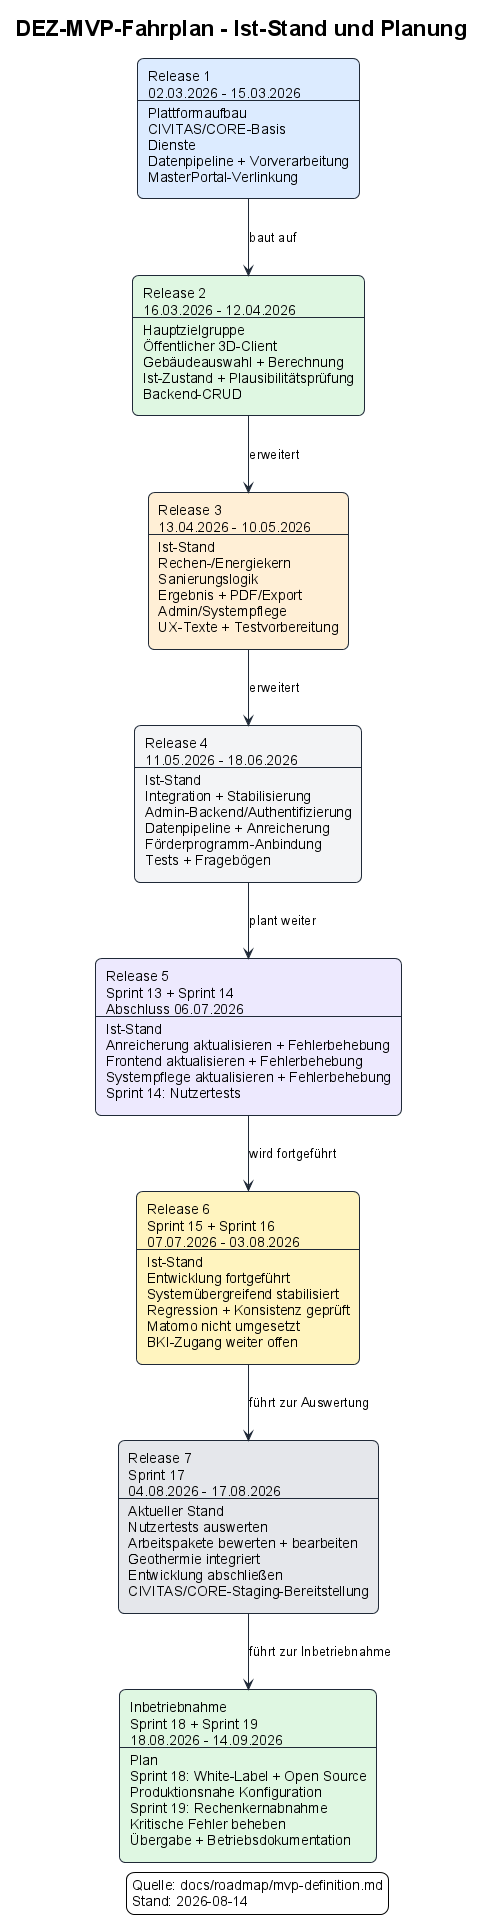
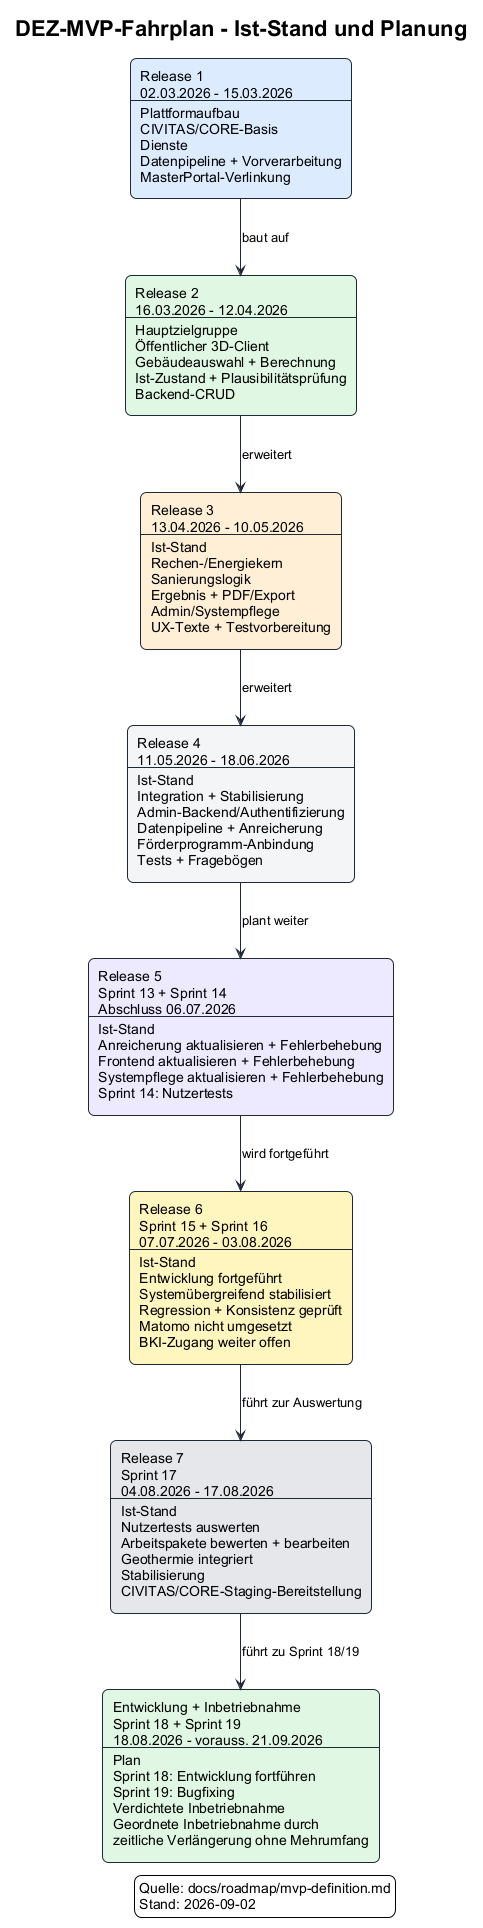
docs: updated roadmap and source references

diff --git a/docs/roadmap/mvp-definition.md b/docs/roadmap/mvp-definition.md
@@ -1,8 +1,8 @@
 # MVP-Definition und Release-Aufteilung
 
-Dieses Dokument beschreibt den tatsächlichen Umsetzungsstand des MVP und dient als Planungsdokument für die ohne Unterbrechung fortgeführte Entwicklung und Inbetriebnahme bis voraussichtlich 14. September 2026.
+Dieses Dokument beschreibt den tatsächlichen Umsetzungsstand des MVP und dient als Planungsdokument für die ohne Unterbrechung fortgeführte Entwicklung, das Bugfixing und die Inbetriebnahme bis voraussichtlich 21. September 2026.
 
-Letzte Änderung: **2026-09-01** (siehe [Roadmap-Pflege und Änderungsverlauf](#roadmap-pflege-und-aenderungsverlauf))
+Letzte Änderung: **2026-09-02** (siehe [Roadmap-Pflege und Änderungsverlauf](#roadmap-pflege-und-aenderungsverlauf))
 
 ---
 
@@ -18,14 +18,14 @@ Letzte Änderung: **2026-09-01** (siehe [Roadmap-Pflege und Änderungsverlauf](#
 8. [Release 4 - Integration, Stabilisierung, Datenpipeline und Testvorbereitung](#release-4)
 9. [Release 5 - Aktualisierung, Bugfixing und Usertesting](#release-5)
 10. [Release 6 - Fortführung der Entwicklung und Stabilisierung](#release-6)
-11. [Release 7 - Usertesting-Auswertung, Arbeitspaketbearbeitung und Entwicklungsabschluss](#release-7)
-12. [Inbetriebnahme - Sprint 18 und Sprint 19](#inbetriebnahme)
+11. [Release 7 - Usertesting-Auswertung, Arbeitspaketbearbeitung und Staging-Deployment](#release-7)
+12. [Entwicklung, Bugfixing und Inbetriebnahme - Sprint 18 und Sprint 19](#inbetriebnahme)
 
 <a id="zielbild-mvp"></a>
 
 ## Zielbild MVP
 
-Der MVP wird in aufeinander aufbauenden Releases umgesetzt. Bis einschließlich Release 6 bilden jeweils zwei aufeinanderfolgende Entwicklungssprints semantisch einen Release. Release 7 besteht als abschließende Ausnahme aus Sprint 17. Insgesamt sind 17 Entwicklungssprints und anschließend zwei Inbetriebnahme-Sprints vorgesehen. Die Arbeit wird ohne Sommerpause in zweiwöchigen Sprints bis voraussichtlich 14. September 2026 fortgeführt.
+Der MVP wird in aufeinander aufbauenden Releases umgesetzt. Bis einschließlich Release 6 bilden jeweils zwei aufeinanderfolgende Entwicklungssprints semantisch einen Release. Release 7 besteht als Ausnahme aus Sprint 17. Entgegen der ursprünglichen Planung wird die Entwicklung in Sprint 18 fortgeführt; Sprint 19 dient dem Bugfixing und der aufgrund laufender Plattform-Updates zeitlich verdichteten Inbetriebnahme. Sprint 19 wird tendenziell um eine Woche bis voraussichtlich 21. September 2026 verlängert. Diese zeitliche Verlängerung erweitert den geplanten Inhalt nicht.
 
 1. **Release 1 (02.03.2026 bis 15.03.2026):** Plattformaufbau (CIVITAS/CORE + Services + Datenpipeline)
 2. **Release 2 (16.03.2026 bis 12.04.2026):** Öffentlicher Client + Bürgerfunktionen + Backend-CRUD
@@ -33,8 +33,8 @@ Der MVP wird in aufeinander aufbauenden Releases umgesetzt. Bis einschließlich 
 4. **Release 4 (11.05.2026 bis 18.06.2026):** Integration, Stabilisierung, Backend-/Admin-Anbindung, Datenpipeline, Förderprogramm-Anbindung und Testvorbereitung
 5. **Release 5 (Sprint 13 und Sprint 14, Abschluss am 06.07.2026):** Aktualisierung und Bugfixing der Anreicherung, des Bürger-Frontends und der Systempflege; Schwerpunkt von Sprint 14 war zusätzlich die Durchführung des Usertestings
 6. **Release 6 (Sprint 15 und Sprint 16, 07.07.2026 bis 03.08.2026):** Fortführung der Entwicklung, Stabilisierung und Vorbereitung des abschließenden Entwicklungsrelease; Matomo wurde wegen fehlender Kundeninstanz und niedriger Priorität nicht umgesetzt
-7. **Release 7 (Sprint 17, voraussichtlich 04.08.2026 bis 17.08.2026):** Auswertung des Usertestings, fachliche und technische Bewertung sowie Bearbeitung der daraus abgeleiteten Arbeitspakete, Abschluss der Entwicklungsphase, Stabilisierung und Deployment einer Version in der CIVITAS/CORE-Staging-Umgebung der Stadt Regensburg
-8. **Inbetriebnahme-Sprints 18 und 19 (voraussichtlich 18.08.2026 bis 14.09.2026):** Produktionsnahe Konfiguration, Inbetriebnahme, Abnahmeunterstützung, Behebung kritischer Fehler und Übergabe
+7. **Release 7 (Sprint 17, 04.08.2026 bis 17.08.2026):** Auswertung des Usertestings, fachliche und technische Bewertung sowie Bearbeitung der daraus abgeleiteten Arbeitspakete, Stabilisierung und Deployment einer Version in der CIVITAS/CORE-Staging-Umgebung der Stadt Regensburg
+8. **Sprint 18 und Sprint 19 (18.08.2026 bis voraussichtlich 21.09.2026):** Fortführung der Entwicklung in Sprint 18, Bugfixing in Sprint 19 sowie die aufgrund laufender Plattform-Updates in Sprint 19 verdichtete Inbetriebnahme einschließlich Abnahmeunterstützung und Übergabe; die tendenzielle Verlängerung von Sprint 19 um eine Woche ist rein zeitlich und erweitert den Inhalt nicht
 
 Die Kalenderdaten ab Sprint 15 sind Planungsdaten. Die Priorisierung der aus dem Usertesting abgeleiteten Arbeitspakete liegt mit Stand 12.08.2026 vor. Der tatsächlich umsetzbare Umfang hängt weiterhin vom geklärten Status der einzelnen Pakete, von erforderlichen Daten, Inhalten und fachlichen Freigaben sowie von der verfügbaren Sprintkapazität ab.
 
@@ -69,6 +69,7 @@ Quelle: `raw/mvp-roadmap.puml`
 
 | Datum | Betroffener Umfang | Bisheriger Stand | Neuer Stand |
 | --- | --- | --- | --- |
+| 2026-09-02 | Sprint 18/19 und Inbetriebnahme | Sprint 18 und Sprint 19 waren vollständig für Inbetriebnahme, Abnahmeunterstützung und kritische Korrekturen bis 14.09.2026 vorgesehen | Sprint 18 wird noch für Entwicklung und Sprint 19 für Bugfixing genutzt. Aufgrund der laufenden Plattform-Updates verdichtet sich die Inbetriebnahme auf Sprint 19. Sprint 19 wird tendenziell bis 21.09.2026 verlängert; die zusätzliche Woche erweitert nur den Zeitraum, nicht den geplanten Inhalt |
 | 2026-09-01 | TA-74/TA-75 - Rechenmethoden und Nachweise | Die verwendeten Formeln, externen Katalogwerte und Fundstellen waren nicht in einem einheitlichen, versionsgebundenen Nachweis zusammengeführt | Der implementierte Rechenumfang ist mit Core v0.19.0, konkreten Formeln, Codepfaden, Seiten-, Tabellen- und Zeilenbezügen dokumentiert; TA-75 und TA-74 sind insoweit abgeschlossen. Nur der nicht implementierte Teilumfang Sanierungsinvestitionen/Amortisation bleibt wegen des fehlenden BKI-Datenzugangs blockiert |
 | 2026-08-27 | AP-20 – PDF-Bericht und Web/PDF-Konsistenz | Der abgestimmte PDF-Umfang war umgesetzt; die finale Synchronisation und Prüfung der Inhalte zwischen Webanwendung und PDF-Bericht war noch offen | Die Web-/PDF-Synchronisation und abschließende Prüfung sind abgeschlossen; AP-20 ist vollständig erledigt und der Restaufwand beträgt 0 Tage |
 | 2026-08-27 | AP-12 – Bedienung und Darstellung der Maßnahmen | Ausgewählte Maßnahmen auf der Ergebnisseite waren noch umzusetzen; fixierte Tabellenüberschriften waren wegen der technischen Kollision mit dem Sticky der Live-Ergebnisse abgegrenzt | Die Ergebnisdarstellung ist umgesetzt und AP-12 vollständig erledigt. Nach ausdrücklicher Abstimmung mit dem Auftraggeber werden die Tabellenüberschriften nicht sichtbar gehalten beziehungsweise sticky gesetzt; dies ist eine bestätigte Scope-Entscheidung. Der Restaufwand beträgt 0 Tage |
@@ -337,11 +338,11 @@ Ergebnis:
 
 <a id="release-7"></a>
 
-## Release 7 - Usertesting-Auswertung, Arbeitspaketbearbeitung und Entwicklungsabschluss
+## Release 7 - Usertesting-Auswertung, Arbeitspaketbearbeitung und Staging-Deployment
 
 **Planungszeitraum:** Sprint 17, 04.08.2026 bis 17.08.2026
 
-Ziel: Die Rückmeldungen aus dem Usertesting fachlich und technisch bewerten, zu zusammenhängenden Arbeitspaketen bündeln, die priorisierten Punkte bearbeiten und die Entwicklungsphase abschließen.
+Ziel: Die Rückmeldungen aus dem Usertesting fachlich und technisch bewerten, zu zusammenhängenden Arbeitspaketen bündeln, die priorisierten Punkte bearbeiten und die Staging-Bereitstellung durchführen.
 
 Bearbeiteter und verbleibender Umfang:
 
@@ -351,7 +352,7 @@ Bearbeiteter und verbleibender Umfang:
 - Ableitung umsetzbarer Tasks erst nach fachlicher Bestätigung und Priorisierung.
 - Umsetzung der durch den Auftraggeber priorisierten Punkte, soweit Voraussetzungen und Sprintkapazität dies zulassen.
 - Fortführung von Stabilisierung, Regressionstests und Konsistenzprüfungen zwischen Webanwendung, Berechnungskern, Backend, Administration und PDF-Bericht.
-- Abschluss der Entwicklungsphase, Stabilisierung und Vorbereitung des Inbetriebnahmekandidaten.
+- Stabilisierung und Vorbereitung eines Kandidaten für die weitere Entwicklung und anschließende Inbetriebnahme.
 
 Die Usertesting-Auswertung umfasst insbesondere Transparenz und Einstieg, Nutzerführung und Responsivität, Gebäudeauswahl und Eingabevalidierung, Maßnahmen- und Empfehlungslogik, Kosten und Amortisation, Fernwärme und lokale Hinweise, PV/Geothermie, Förderung, Ergebnisabschluss, Datenspende und PDF-Konsistenz.
 
@@ -403,7 +404,7 @@ Ergebnis:
 
 ### Abschluss, Stabilisierung und Staging-Deployment
 
-Ziel: Die Entwicklungsphase abschließen, priorisierte Änderungen integrieren, einen stabilen Kandidaten für die Inbetriebnahme bereitstellen und eine Version in der CIVITAS/CORE-Staging-Umgebung der Stadt Regensburg deployen.
+Ziel: Priorisierte Änderungen integrieren, einen stabilen Kandidaten für die weitere Entwicklung und Inbetriebnahme bereitstellen und eine Version in der CIVITAS/CORE-Staging-Umgebung der Stadt Regensburg deployen.
 
 Geplanter Umfang:
 
@@ -418,28 +419,30 @@ Geplanter Umfang:
 
 Hinweis:
 
-- Release 7 besteht als abschließende Ausnahme aus dem einzelnen Sprint 17 und ist der letzte Entwicklungsrelease vor der Inbetriebnahme.
+- Release 7 besteht als Ausnahme aus dem einzelnen Sprint 17. Die ursprünglich für danach vorgesehene ausschließliche Inbetriebnahme wurde zugunsten weiterer Entwicklung in Sprint 18 und Bugfixing in Sprint 19 angepasst.
 - Ein Prioritätslabel allein begründet keine Aufnahme in Sprint 17. Maßgeblich sind zusätzlich der geklärte Bearbeitungsstand, ein ausreichend bestimmter Restumfang, erfüllte Voraussetzungen und verfügbare Kapazität.
 - Nicht für Sprint 17 bestätigte oder weiterhin extern blockierte Usertesting-Punkte werden nicht stillschweigend aufgenommen.
 - Quartiersanalyse bleibt von fachlicher Klärung und Freigabe abhängig. Für Solar/PV liegt die Datenfreigabe vor; Detailgrad und Umsetzung sind offen, weil die ursprüngliche LB-Tiefe von AG und AN als deutlich zu hoch bewertet und der reduzierte AN-Vorschlag vom AG nicht angenommen wurde. Die Geothermieintegration wurde nach der Datenfreigabe in Sprint 17 technisch umgesetzt; Herkunfts-, Lizenz-, Turnus- und Schemametadaten sind noch zu klären. Der NGSI-LD-Pfad ist vorbereitet, die konkrete Schnittstelle der Kundeninstanz jedoch nicht geklärt.
 
 Ergebnis:
 
-- In der CIVITAS/CORE-Staging-Umgebung der Stadt Regensburg bereitgestellter und geprüfter Inbetriebnahmekandidat mit dokumentiertem Funktionsumfang und abgegrenzten offenen Punkten.
+- In der CIVITAS/CORE-Staging-Umgebung der Stadt Regensburg bereitgestellter und geprüfter Kandidat für die weitere Entwicklung und Inbetriebnahme mit dokumentiertem Funktionsumfang und abgegrenzten offenen Punkten.
 
 ---
 
 <a id="inbetriebnahme"></a>
 
-## Inbetriebnahme - Sprint 18 und Sprint 19
+## Entwicklung, Bugfixing und Inbetriebnahme - Sprint 18 und Sprint 19
 
-**Planungszeitraum:** 18.08.2026 bis 14.09.2026
+**Planungszeitraum:** 18.08.2026 bis voraussichtlich 21.09.2026; Sprint 19 wird tendenziell um eine Woche verlängert
 
-Ziel: Den abgestimmten Entwicklungsstand produktionsnah konfigurieren, in Betrieb nehmen und in einen nutzbaren Betriebszustand überführen.
+Ziel: Den Entwicklungsstand in Sprint 18 fortführen, in Sprint 19 verbleibende Fehler beheben und den abgestimmten Stand produktionsnah konfigurieren, in Betrieb nehmen und in einen nutzbaren Betriebszustand überführen.
 
 Geplanter Umfang:
 
-- Finales Deployment und produktionsnahe Konfiguration.
+- Fortführung der Entwicklung in Sprint 18.
+- Bugfixing in Sprint 19.
+- Finales Deployment und produktionsnahe Konfiguration in der in Sprint 19 verdichteten Inbetriebnahme.
 - White-Labeling und Open-Source-/Open-Code-Veröffentlichung sind für Sprint 18 vorgesehen (FA-106 bis FA-114, TA-87 bis TA-94 und TA-121 bis TA-128).
 - Der im Entwicklungsstand fest codierte S3-Tile-Endpunkt muss vor dem Deployment durch den einheitlichen APISIX-Zugriffspfad `/api/public/tiles/*` ersetzt beziehungsweise konfiguriert werden.
 - Zielsystem und Übertragungsweg der Feedback-Funktion (FA-71) sowie die produktive NGSI-LD-Schnittstelle zur Kundeninstanz sind zu klären.
@@ -454,11 +457,12 @@ Geplanter Umfang:
 
 Planungsannahmen:
 
-- Die Entwicklung läuft ohne Sommerpause bis einschließlich Sprint 17 weiter.
-- Sprint 18 und Sprint 19 sind vollständig für Inbetriebnahme, Abnahmeunterstützung und kritische Korrekturen vorgesehen.
-- Über die für Sprint 18 bereits vorgesehenen White-Labeling- und Open-Source-Arbeiten hinaus werden neue fachliche Erweiterungen während der Inbetriebnahme nur aufgenommen, wenn sie für einen sicheren oder funktionsfähigen Betrieb zwingend erforderlich sind.
+- Die Entwicklung läuft ohne Sommerpause bis einschließlich Sprint 18 weiter; Sprint 19 dient dem Bugfixing und der Inbetriebnahme.
+- Aufgrund der laufenden Plattform-Updates verdichtet sich die Inbetriebnahme auf Sprint 19.
+- Sprint 19 wird tendenziell um eine Woche bis voraussichtlich 21.09.2026 verlängert. Die Verlängerung dient einer geordneten Inbetriebnahme und erweitert den geplanten Inhalt nicht.
+- Über die für Sprint 18 bereits vorgesehenen White-Labeling- und Open-Source-Arbeiten hinaus werden neue fachliche Erweiterungen nur aufgenommen, wenn sie für einen sicheren oder funktionsfähigen Betrieb zwingend erforderlich sind.
 - Matomo ist niedrig priorisiert und wegen der noch aufzubauenden eigenen Instanz keinem verbindlichen Sprint 18/19 zugeordnet. Auch die Solarumsetzung ist wegen des offenen Detailgrads nicht belastbar eingeplant.
 
 Ergebnis:
 
-- In Betrieb genommener MVP mit dokumentiertem Umfang, dokumentierten offenen Punkten und vorbereitetem Betrieb bis voraussichtlich 14.09.2026.
+- In Betrieb genommener MVP mit dokumentiertem Umfang, dokumentierten offenen Punkten und vorbereitetem Betrieb bis voraussichtlich 21.09.2026.

diff --git a/docs/architecture/19-calculation-method-evidence.md b/docs/architecture/19-calculation-method-evidence.md
@@ -1,6 +1,6 @@
 # Nachweis der Rechenmethoden
 
-Stand: 01.09.2026
+Stand: 02.09.2026
 
 Rechenkernstand: v0.19.0
 
@@ -45,6 +45,7 @@ Die verlinkten Implementierungen sind auf den Tag `v0.19.0` festgelegt.
 | Treibhausgasemissionen | Je Energieträger `mCO2 = QEndenergie × CO2-Faktor × 10^-6` in Tonnen; thermischer und elektrischer Anteil werden addiert. | [`thermalEnergy.ts`](https://github.com/csi-FOXBYTE/Regensburg_DigitalerEnergieZwilling_EnergyCalculationCore/blob/v0.19.0/src/calculators/energy/resolvers/thermalEnergy.ts), [`electricalEnergy.ts`](https://github.com/csi-FOXBYTE/Regensburg_DigitalerEnergieZwilling_EnergyCalculationCore/blob/v0.19.0/src/calculators/energy/resolvers/electricalEnergy.ts) |
 | Verbrauch und laufende Energiekosten | Brennstoffmenge = thermischer Endenergiebedarf / Energie je Einheit; laufende Kosten = Menge × Arbeitspreis + Grundpreis. Nutzerwerte haben nach den dokumentierten Vorrangregeln Vorrang. | [`thermalEnergy.ts`](https://github.com/csi-FOXBYTE/Regensburg_DigitalerEnergieZwilling_EnergyCalculationCore/blob/v0.19.0/src/calculators/energy/resolvers/thermalEnergy.ts) |
 | Energieeffizienzklasse | Gesamt-Endenergiebedarf / Gebäudenutzfläche; Zuordnung zu A+ bis H anhand der konfigurierten Grenzwerte. | [`totals.ts`](https://github.com/csi-FOXBYTE/Regensburg_DigitalerEnergieZwilling_EnergyCalculationCore/blob/v0.19.0/src/calculators/energy/resolvers/totals.ts) |
+| Empfehlungen für Hüllbauteile | Das Bau- beziehungsweise Sanierungsjahr wird mit dem bauteilspezifischen `recommendYearRange` verglichen. Bei Dach, oberster Geschossdecke, unterem Abschluss und Außenwand unterdrückt eine bereits vorhandene Dämmung die Empfehlung. | [`default-config.ts`](https://github.com/csi-FOXBYTE/Regensburg_DigitalerEnergieZwilling_EnergyCalculationCore/blob/v0.19.0/src/types/config/default-config.ts), [`generate.ts`](https://github.com/csi-FOXBYTE/Regensburg_DigitalerEnergieZwilling_EnergyCalculationCore/blob/v0.19.0/src/types/renovation/generate.ts) |
 
 Die zugehörigen Katalogwerte und Schwellen stehen in
 [`default-config.ts`](https://github.com/csi-FOXBYTE/Regensburg_DigitalerEnergieZwilling_EnergyCalculationCore/blob/v0.19.0/src/types/config/default-config.ts).
@@ -59,7 +60,35 @@ Die zugehörigen Katalogwerte und Schwellen stehen in
 | [Gebäudeenergiegesetz, Anlage 10 zu § 86](https://www.gesetze-im-internet.de/geg/anlage_10.html) | Gesamte Tabelle, Zeilen A+ bis H | Im Core hinterlegte numerische Schwellen `30`, `50`, `75`, `100`, `130`, `160`, `200` und `250` kWh/(m²·a) für die Klassen A+ bis H. Die Abweichung an den exakten Grenzwerten ist unten dokumentiert. |
 | [BEG EM - Technische Mindestanforderungen, Bekanntmachung vom 29. Dezember 2023](https://www.energiewechsel.de/KAENEF/Redaktion/DE/PDF-Anlagen/BEG/bundesfoerderung-fuer-effiziente-gebaeude-einzelmassnahmen-20231229.pdf?__blob=publicationFile&v=1) | PDF-S. 18-19, Tabelle in Nummer 1.1, Zeilen Außenwand, Fenster, Dachflächenfenster, Schräg-/Flachdach, oberste Geschossdecke, Decken gegen unbeheizte Räume/Kellerdecken und Bodenflächen gegen Erdreich | Ziel-U-Werte der Sanierungsempfehlungen: Außenwand `0,20`, Fenster `0,95`, Dachflächenfenster `1,0`, Dach und oberste Geschossdecke `0,14`, unterer Abschluss `0,25` W/(m²·K). |
 
-## 4. Konfigurierbare Projektfestlegungen
+## 4. Bestätigte und konfigurierbare Projektfestlegungen
+
+### 4.1 Bauteilbezogene Empfehlungsgrenzen
+
+Die folgenden sechs Grenzjahre wurden vom Energieberater vorgeschlagen und im
+vom Kunden abgenommenen Rechenkonzept bestätigt. Fachliche Referenz ist die
+[Arbeitsmappe zum Rechenkonzept](../attachments/20260320_RDEZ_Uebersicht_Berechnung_Grobkonzept.xlsx),
+insbesondere die bauteilbezogenen Domänenblätter. Die technische Umsetzung
+erfolgt über `recommendYearRange` in der `DEFAULT_CONFIG`:
+
+| Bauteil | Empfehlung bei Bau-/Sanierungsjahr bis einschließlich | Zusätzliche Bedingung |
+|---|---:|---|
+| Unterer Gebäudeabschluss | 1986 | keine bereits vorhandene Dämmung |
+| Dach | 2006 | keine bereits vorhandene Dämmung |
+| Oberste Geschossdecke | 1986 | keine bereits vorhandene Dämmung |
+| Außenwand | 1978 | keine bereits vorhandene Dämmung |
+| Außenfenster | 1994 | keine zusätzliche Dämmungsbedingung |
+| Dachflächenfenster | 1994 | keine zusätzliche Dämmungsbedingung |
+
+Die Grenzjahre sind projektbezogene Empfehlungsregeln und keine in Jahren
+angegebenen rechnerischen Nutzungsdauern. Sie werden insbesondere nicht als
+Zahlenwerte aus VDI 2067 ausgewiesen. VDI 2067 Blatt 1 behandelt insoweit
+Anlagentechnik; [VDI 2067 Blatt 50](https://www.vdi.de/mitgliedschaft/vdi-richtlinien/details/vdi-2067-blatt-50-wirtschaftlichkeit-von-bauteilen)
+erweitert die Wirtschaftlichkeitsbetrachtung zwar auf Hochbauteile und enthält
+laut [offiziellem Inhaltsverzeichnis](https://www.vdi.de/fileadmin/pages/vdi_de/redakteure/richtlinien/inhaltsverzeichnisse/2852500.pdf)
+Anwendungsbeispiele zur Bestimmung der Nutzungsdauer, belegt aber nicht die sechs
+im Core verwendeten Grenzjahre.
+
+### 4.2 Weitere Projektfestlegungen
 
 Die folgenden im Rechenkern verwendeten Werte sind fachlich abgestimmte,
 änderbare Projektparameter. Für sie wird in diesem Nachweis keine externe
